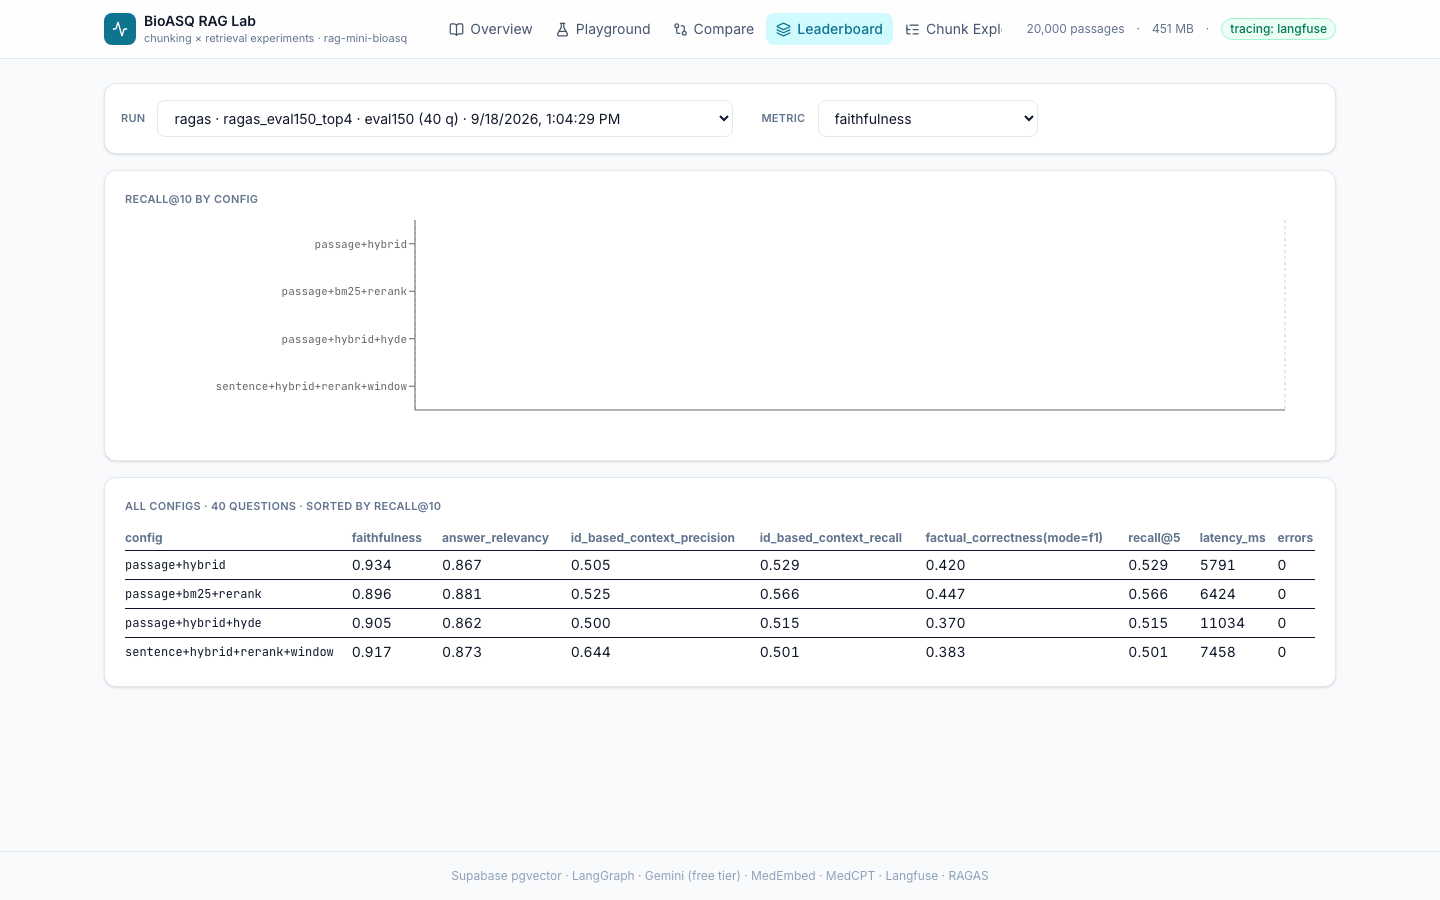
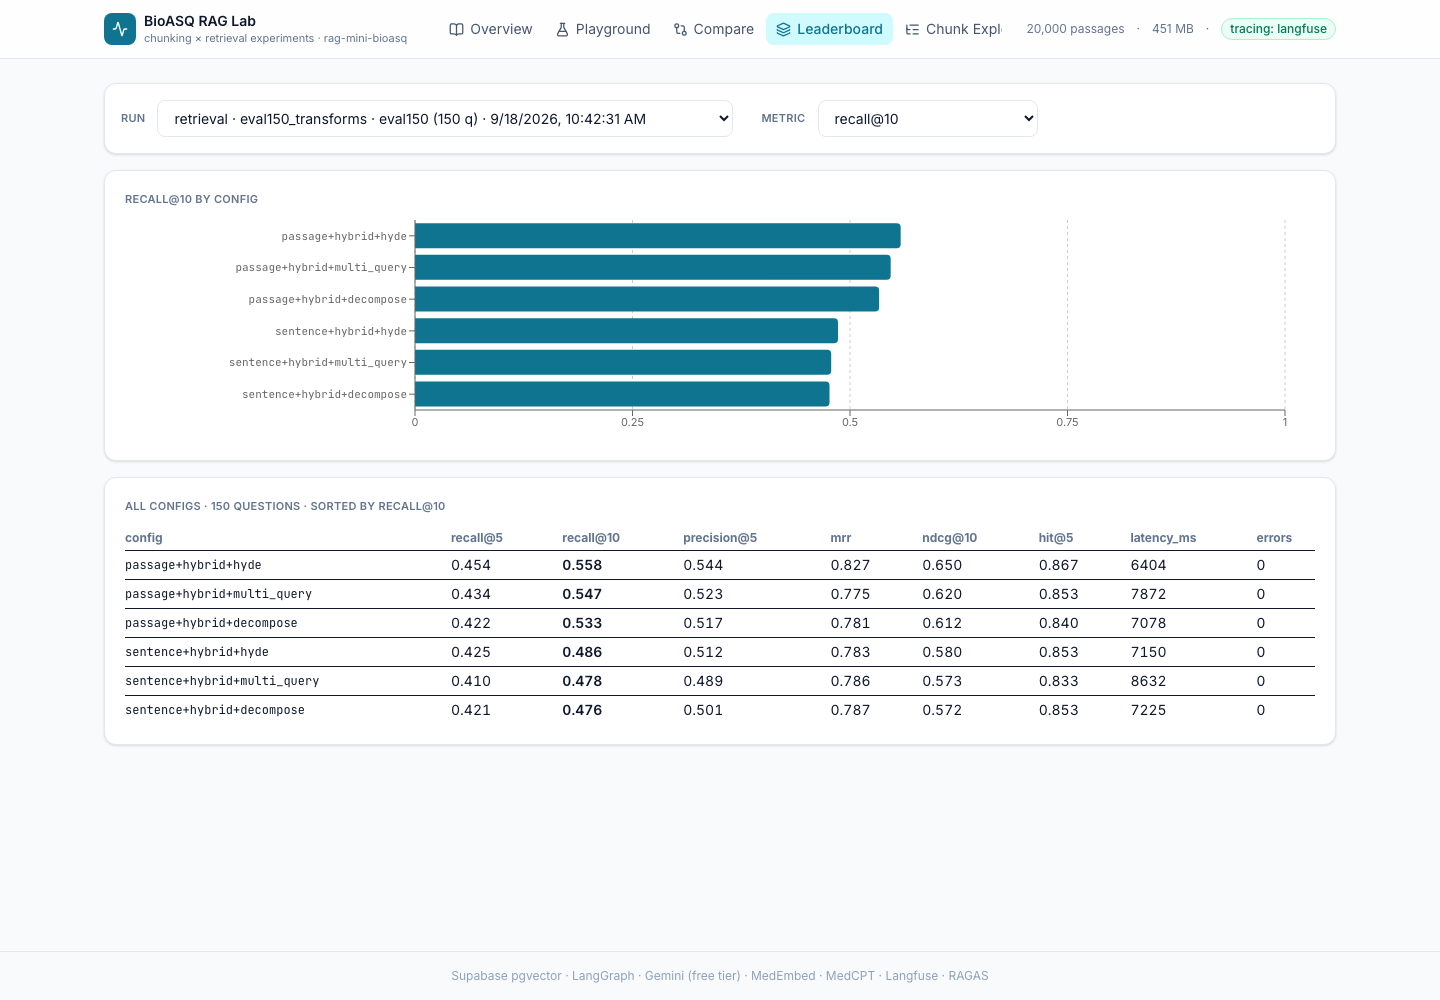
Leaderboard: default to newest retrieval run, keep metric valid across run kinds

diff --git a/frontend/src/pages/Leaderboard.tsx b/frontend/src/pages/Leaderboard.tsx
@@ -1,4 +1,4 @@
-import { useMemo, useState } from 'react'
+import { useEffect, useMemo, useState } from 'react'
 import { Bar, BarChart, CartesianGrid, ResponsiveContainer, Tooltip, XAxis, YAxis } from 'recharts'
 import { api, fmt, type EvalRun } from '../lib/api'
 import { useAsync } from '../lib/hooks'
@@ -12,9 +12,12 @@ export default function Leaderboard() {
   const [sel, setSel] = useState<string | null>(null)
   const [metric, setMetric] = useState('recall@10')
   const done = (runs.data ?? []).filter((r) => r.status === 'done' && r.summary?.configs?.length)
-  const run: EvalRun | undefined = done.find((r) => r.id === sel) ?? done[0]
+  // default to the newest *retrieval* run (the matrix heatmap), else the newest run of any kind
+  const run: EvalRun | undefined = done.find((r) => r.id === sel) ?? done.find((r) => r.kind === 'retrieval') ?? done[0]
   const rows: Row[] = useMemo(() => (run?.summary?.configs ?? []) as Row[], [run])
   const cols = run?.kind === 'ragas' ? RAGAS : METRICS
+  // a ragas run has different columns than a retrieval run — keep the metric valid when switching
+  useEffect(() => { if (run && !cols.includes(metric)) setMetric(run.kind === 'ragas' ? 'factual_correctness(mode=f1)' : 'recall@10') }, [run, cols, metric])
   const sorted = [...rows].sort((a, b) => Number(b[metric] ?? 0) - Number(a[metric] ?? 0))
   const heat = useMemo(() => {
     if (run?.kind !== 'retrieval') return null
